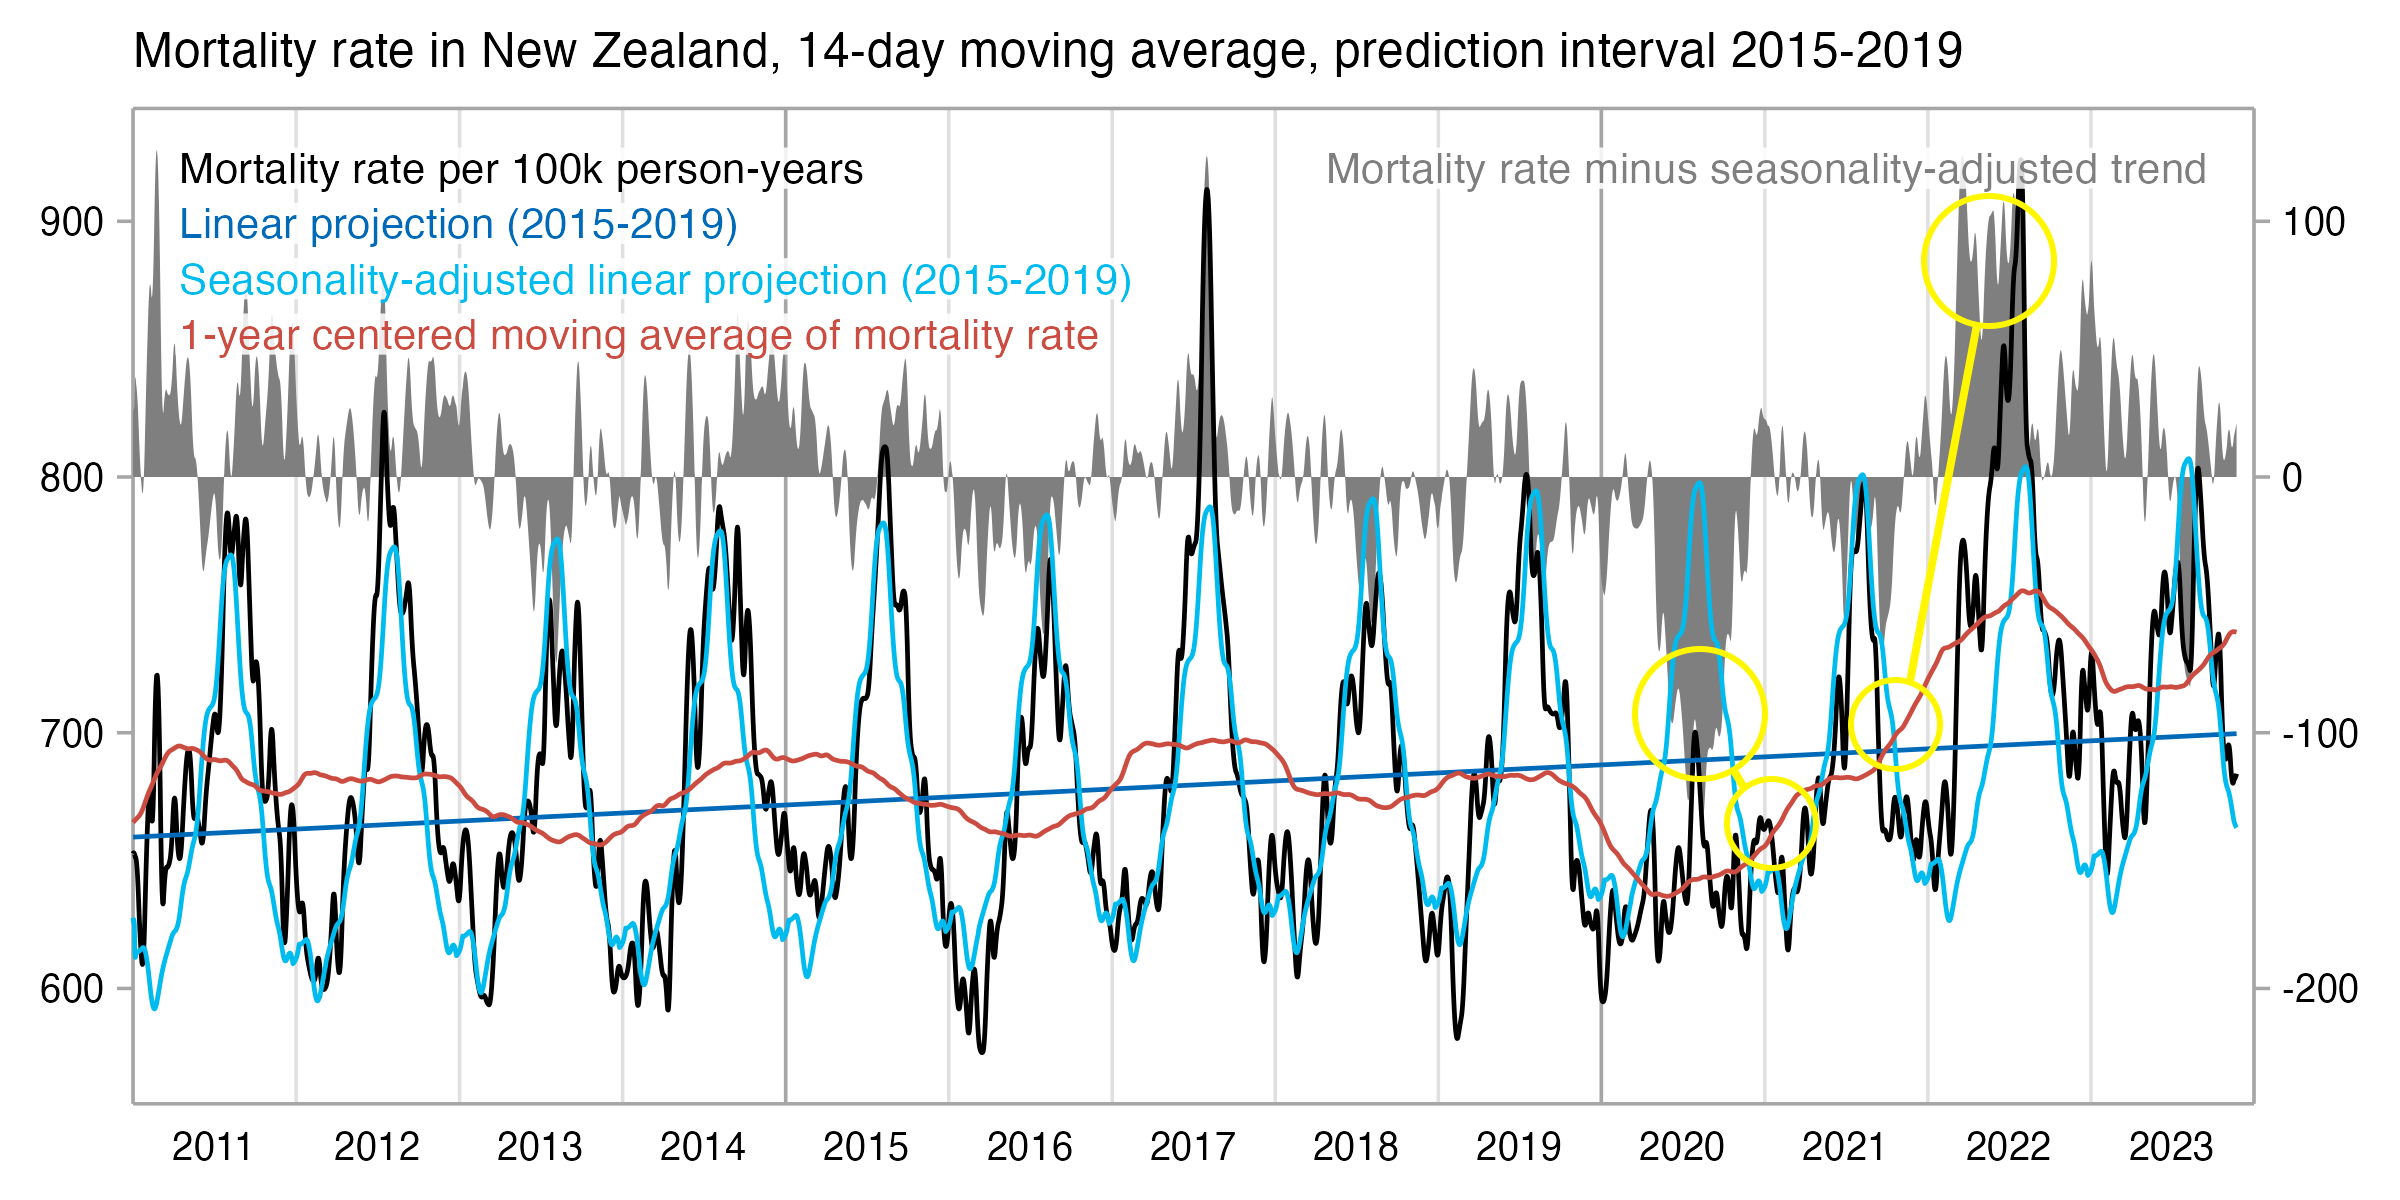
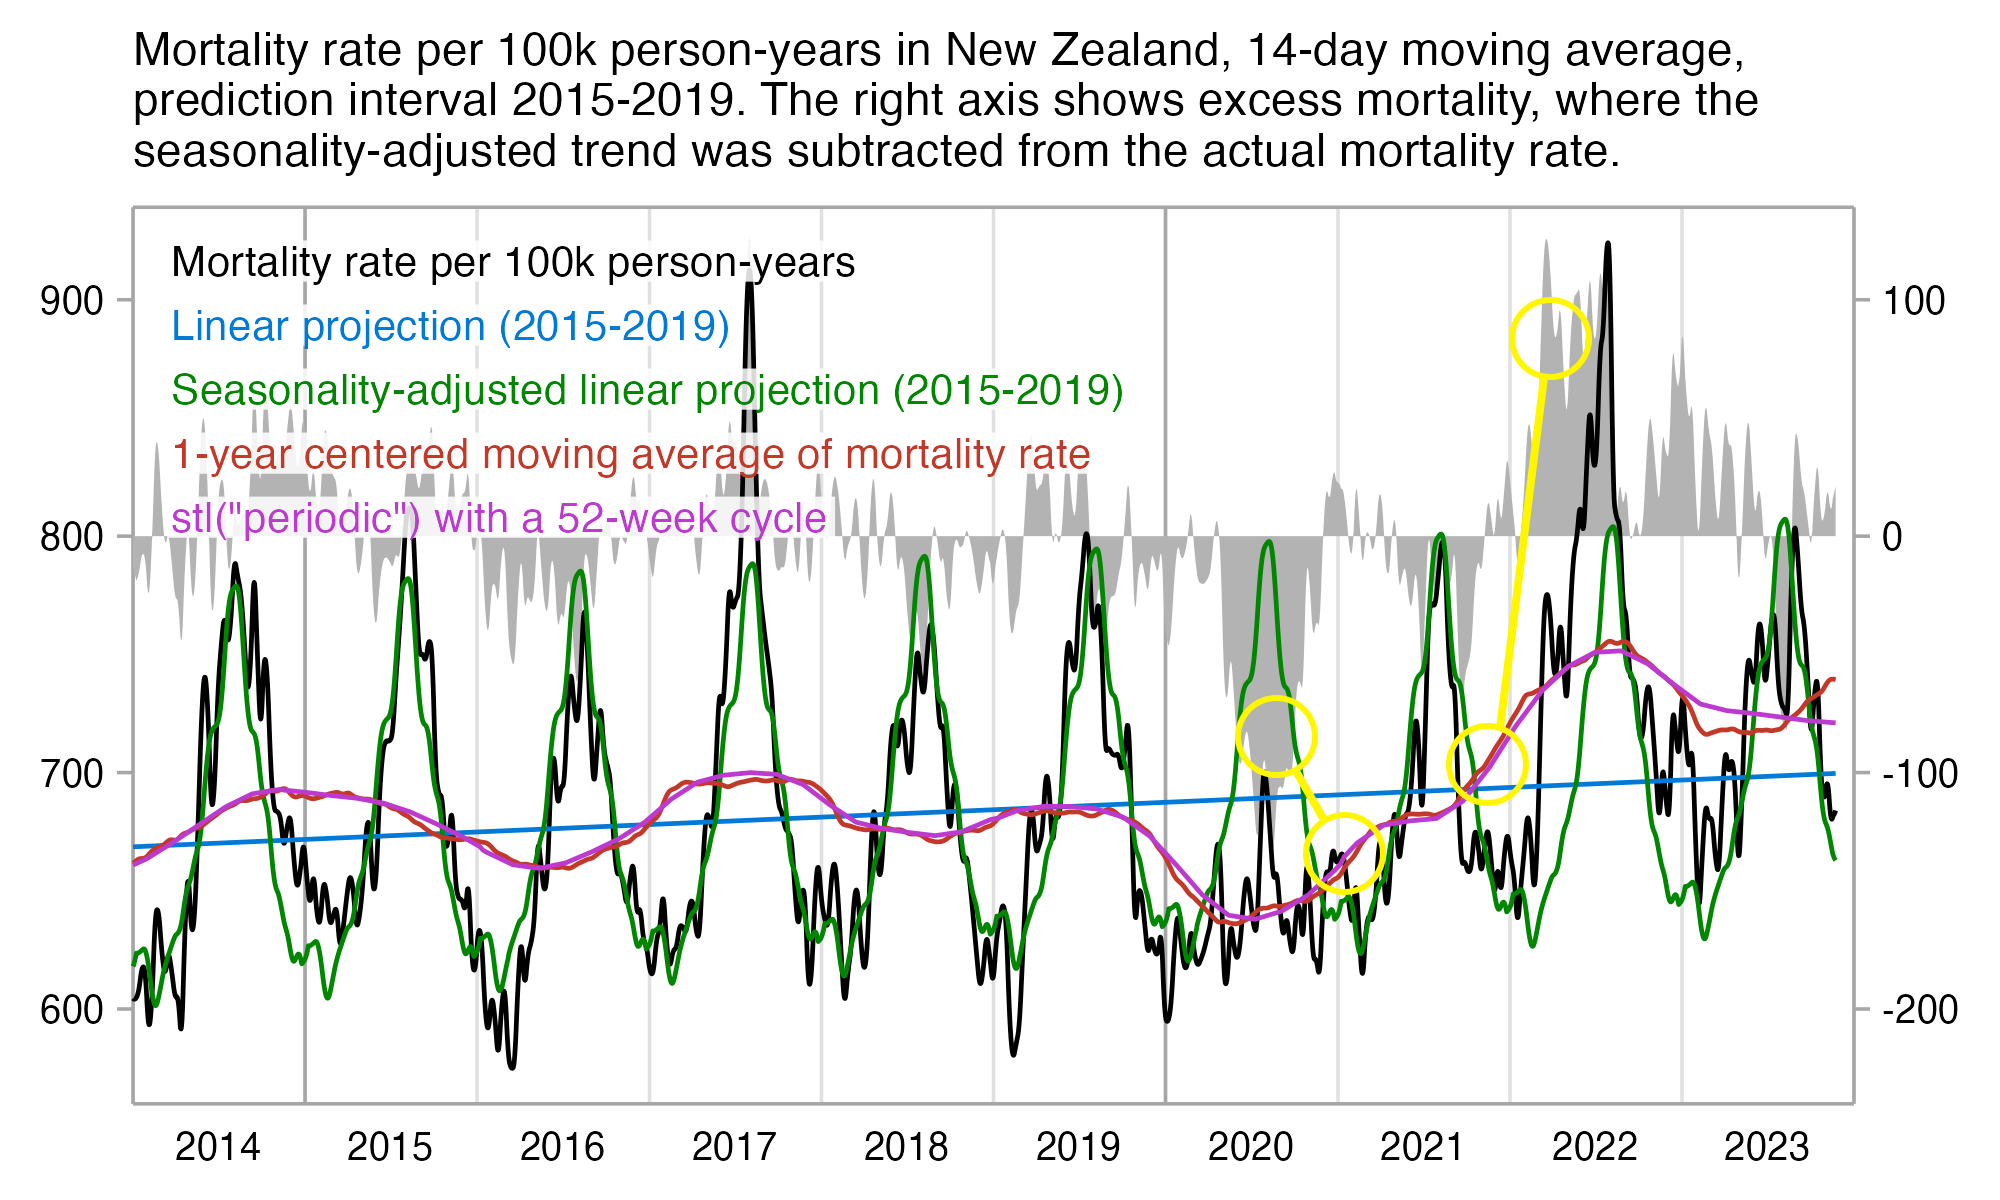
a

diff --git a/moar.html b/moar.html
@@ -212,6 +212,13 @@ Anyone doing serious work on the data should always use the date of birth to com
  15785  15744  14393  14328  13802  13661  12171  11858  11384  11250  10947
     48     47     30     38     37     31     32     33
  10782  10624  10494  10359  10178   9610   9323   9300</pre>
+<p>The difference between the age column and the age at vaccination is between 0 and 3 years, and the most common difference is 2 years:</p>
+<pre>&gt; t=as.data.frame(data.table::fread(&quot;nz-record-level-data-4M-records.csv&quot;,showProgress=F))
+&gt; for(i in grep(&quot;date&quot;,colnames(t)))t[,i]=as.Date(t[,i],&quot;%m-%d-%Y&quot;)
+&gt; library(lubridate);table(t$age-t$date_of_birth%--%t$date_time_of_service%/%years())
+
+      0       1       2       3
+ 256801 1042553 2571549  322535</pre>
 <h3>
 <a href=#Representation_of_age_groups_in_the_dataset id=Representation_of_age_groups_in_the_dataset>Representation of age groups in the dataset</a>
 </h3>
@@ -3143,12 +3150,26 @@ system(&quot;qlmanage -p 1.png &amp;&gt;/dev/null&quot;)</pre>
 <div class="width5">
 <img src="i/moar-epidemiologist-1.jpg">
 </div>
-<p>In the plots above the y-axis shows deaths per person-years. The plot that is labeled <span class="quote">&quot;trend&quot;</span> probably shows the 1-year moving average with a centered window, because the trend line is missing for the first half year in 2011 and the last half year in 2023. And if the 1-year moving average had a backwards window, the lowest point would be in 2020 Q4 and not 2020 Q2.</p>
-<p>The reason why the trend jumps up in early 2021 is because the window moves past the period in mid-2020 with the greatest negative excess mortality. And the reason why the trend jumps up in late 2021 is because the first COVID wave in 2022 passes inside the window:</p>
+<p>In the plots above the y-axis shows deaths per person-years. At first I thought that the plot that is labeled <span class="quote">&quot;trend&quot;</span> was a 1-year moving average with a centered window, because the trend line is missing for the first half year in 2011 and the last half year in 2023. And if the 1-year moving average had a backwards window, the lowest point would be in 2020 Q4 and not 2020 Q2.</p>
+<p>However Kirsch later published the R code that was used by the epidemiologist from a top university, and it turned out that the plot used the <code>stl</code> function with the <code>&quot;periodic&quot;</code> parameter: <a href="https://github.com/skirsch/R-projects/blob/main/NewZealand/main_share%2eR">https://github.com/skirsch/R-projects/blob/main/NewZealand/main_share%2eR</a>. The help page of the function says:</p>
+<pre>Decompose a time series into seasonal, trend and irregular
+components using loess, acronym STL.
+
+[...]
+
+The seasonal component is found by _loess_ smoothing the seasonal
+sub-series (the series of all January values, ...); if &#39;s.window =
+&quot;periodic&quot;&#39; smoothing is effectively replaced by taking the mean.
+The seasonal values are removed, and the remainder smoothed to
+find the trend. The overall level is removed from the seasonal
+component and added to the trend component. This process is
+iterated a few times.  The &#39;remainder&#39; component is the residuals
+from the seasonal plus trend fit.</pre>
+<p>However the results of the <code>stl</code> function are similar to a 1-year moving average with a centered window, except it's a bit smoother. So if you think of the trend as a centered moving average, then the reason why it jumps up in early 2021 is because the window moves past the period in mid-2020 with the greatest negative excess mortality. And the reason why the trend jumps up in late 2021 is because the first COVID wave in 2022 passes inside the window:</p>
 <div class="width8">
 <img src="i/moar-epidemiologist-2.png">
 </div>
-<p>However in 2021 Q2 and Q3 when the majority of the population of New Zealand got vaccinated, the seasonality-adjusted excess mortality remains negative in my plot above.</p>
+<p>However in my plot above if you look at the gray ribbon for excess mortality, you can see that it mostly remained negative in the second and third quarters of 2021, which is when the majority of the NZ population got vaccinated.</p>
 <h3>
 <a href=#Increase_in_mortality_rate_in_batches_10_13_and_34 id=Increase_in_mortality_rate_in_batches_10_13_and_34>Increase in mortality rate in batches 10, 13, and 34</a>
 </h3>
@@ -3173,7 +3194,7 @@ system(&quot;qlmanage -p 1.png &amp;&gt;/dev/null&quot;)</pre>
 <p>I didn't adjust my baseline for seasonal fluctuation in mortality, so you can see that there's two winters where the number of deaths for batch 10 remains far above the baseline, even though the deaths dip below the baseline in between. The average vaccination date for doses in batch 10 is in August 2021.</p>
 <p>The average age on the day of vaccination was about 49 for batch 10, 46 for batch 13, and 59 for batch 34. So the reason why batch 34 has the biggest increase in mortality rate might be because the healthy vaccinee effect seems to be stronger in older age groups. And batch 34 also has the steepest increase in the baseline because of the aging of the cohort.</p>
 <p>Uncle John Returns pointed out that Kirsch counted people who died after receiving two shots from batch 10 as two deaths, which ununusually resulted in Kirsch fixing his plots. [<a href="https://twitter.com/UncleJo46902375/status/1740345755519557942">https://twitter.com/UncleJo46902375/status/1740345755519557942</a>]</p>
-<p>I next tried using the method developed by OpenVAET/canceledmouse to calculate excess mortality by batch, where I calculated the baseline based on monthly reported excess mortality in 5-year age groups, so it's adjusted for both seasonality and increased mortality caused by COVID waves. Batch 34 got -74% excess mortality on weeks 0-4 after vaccination, and in general batches given to older people had greater negative excess mortality during the first weeks after vaccination. The correlation between excess mortality on weeks 0-4 and average age was about -0.40:</p>
+<p>I next tried using the method developed by OpenVAET/canceledmouse to calculate excess mortality by batch, where I calculated the baseline based on monthly reported excess mortality in 5-year age groups, so it's adjusted for both seasonality and increased mortality caused by COVID waves. I used the bucket system so that a person who got a vaccine from a new batch was no longer included under earlier batches. Batch 34 got -74% excess mortality on weeks 0-4 after vaccination, and in general batches given to older people had greater negative excess mortality during the first weeks after vaccination. The correlation between excess mortality on weeks 0-4 and average age was about -0.40:</p>
 <div class="width14">
 <img src="i/moar-batch-weeks-heat.png">
 </div>
